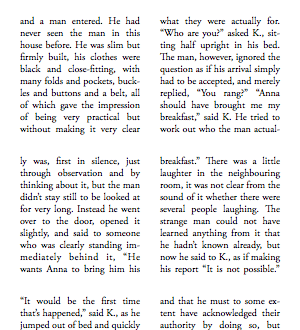
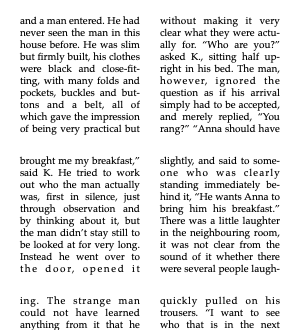
fixed Text.flow() when invoked w/ callback
- it was using map() which started being lazy in python3 and was failing to invoke the callback

diff --git a/tests/typography.py b/tests/typography.py
@@ -335,7 +335,7 @@ class TypographyTests(PlotDeviceTestCase):
         size(300, 330)
         kafka = 'and a man entered. He had never seen the man in this house before. He was slim but firmly built, his clothes were black and close-fitting, with many folds and pockets, buckles and buttons and a belt, all of which gave the impression of being very practical but without making it very clear what they were actually for. “Who are you?” asked K., sitting half upright in his bed. The man, however, ignored the question as if his arrival simply had to be accepted, and merely replied, “You rang?” “Anna should have brought me my breakfast,” said K. He tried to work out who the man actually was, first in silence, just through observation and by thinking about it, but the man didn’t stay still to be looked at for very long. Instead he went over to the door, opened it slightly, and said to someone who was clearly standing immediately behind it, “He wants Anna to bring him his breakfast.” There was a little laughter in the neighbouring room, it was not clear from the sound of it whether there were several people laughing. The strange man could not have learned anything from it that he hadn’t known already, but now he said to K., as if making his report “It is not possible.” “It would be the first time that’s happened,” said K., as he jumped out of bed and quickly pulled on his trousers. “I want to see who that is in the next room, and why it is that Mrs. Grubach has let me be disturbed in this way.” It immediately occurred to him that he needn’t have said this out loud, and that he must to some extent have acknowledged their authority by doing so, but that ...'
         
-        font('Palatino', size=10)
+        font('Hoefler Text', size=10)
         layout(align=JUSTIFY, hyphenate=True)
         
         def leftright(block):

diff --git a/plotdevice/gfx/text.py b/plotdevice/gfx/text.py
@@ -332,7 +332,8 @@ class Text(EffectsMixin, TransformMixin, FrameMixin, StyleMixin, Grob):
 
         if not layout:
             return self._reflow(columns)   # return the generator for iteration
-        map(layout, self._reflow(columns)) # apply the layout function to each block in sequence
+        for block in self._reflow(columns): 
+            layout(block) # apply the layout function to each block in sequence
 
     def _reflow(self, count):
         # wipe out any previously set blocks then keep adding new ones until
@@ -926,4 +927,3 @@ class TextBlock(FrameMixin, Grob):
         # we inherit from Grob for the methods, not drawability
         codependent = "TextBlocks can't be drawn directly; plot() the parent Text object instead"
         raise DeviceError(codependent)
-

diff --git a/CHANGES.md b/CHANGES.md
@@ -9,6 +9,7 @@ PlotDevice 1.0.1
 
 ##### Bugfixes
 * `ordered()` now works correctly and no longer causes the `Advanced/Sorting.pv` example to crash
+* `Text.flow()` will now invoke user-provided callbacks to determine layout of multi-column runs
 * Command line tool now parses `{4}`-style padded number blocks in exported filenames correctly
 * Silenced a console error by fixing `super()` use in command line tool
 * Document restoration in app now uses modern 'secure restorable state'
